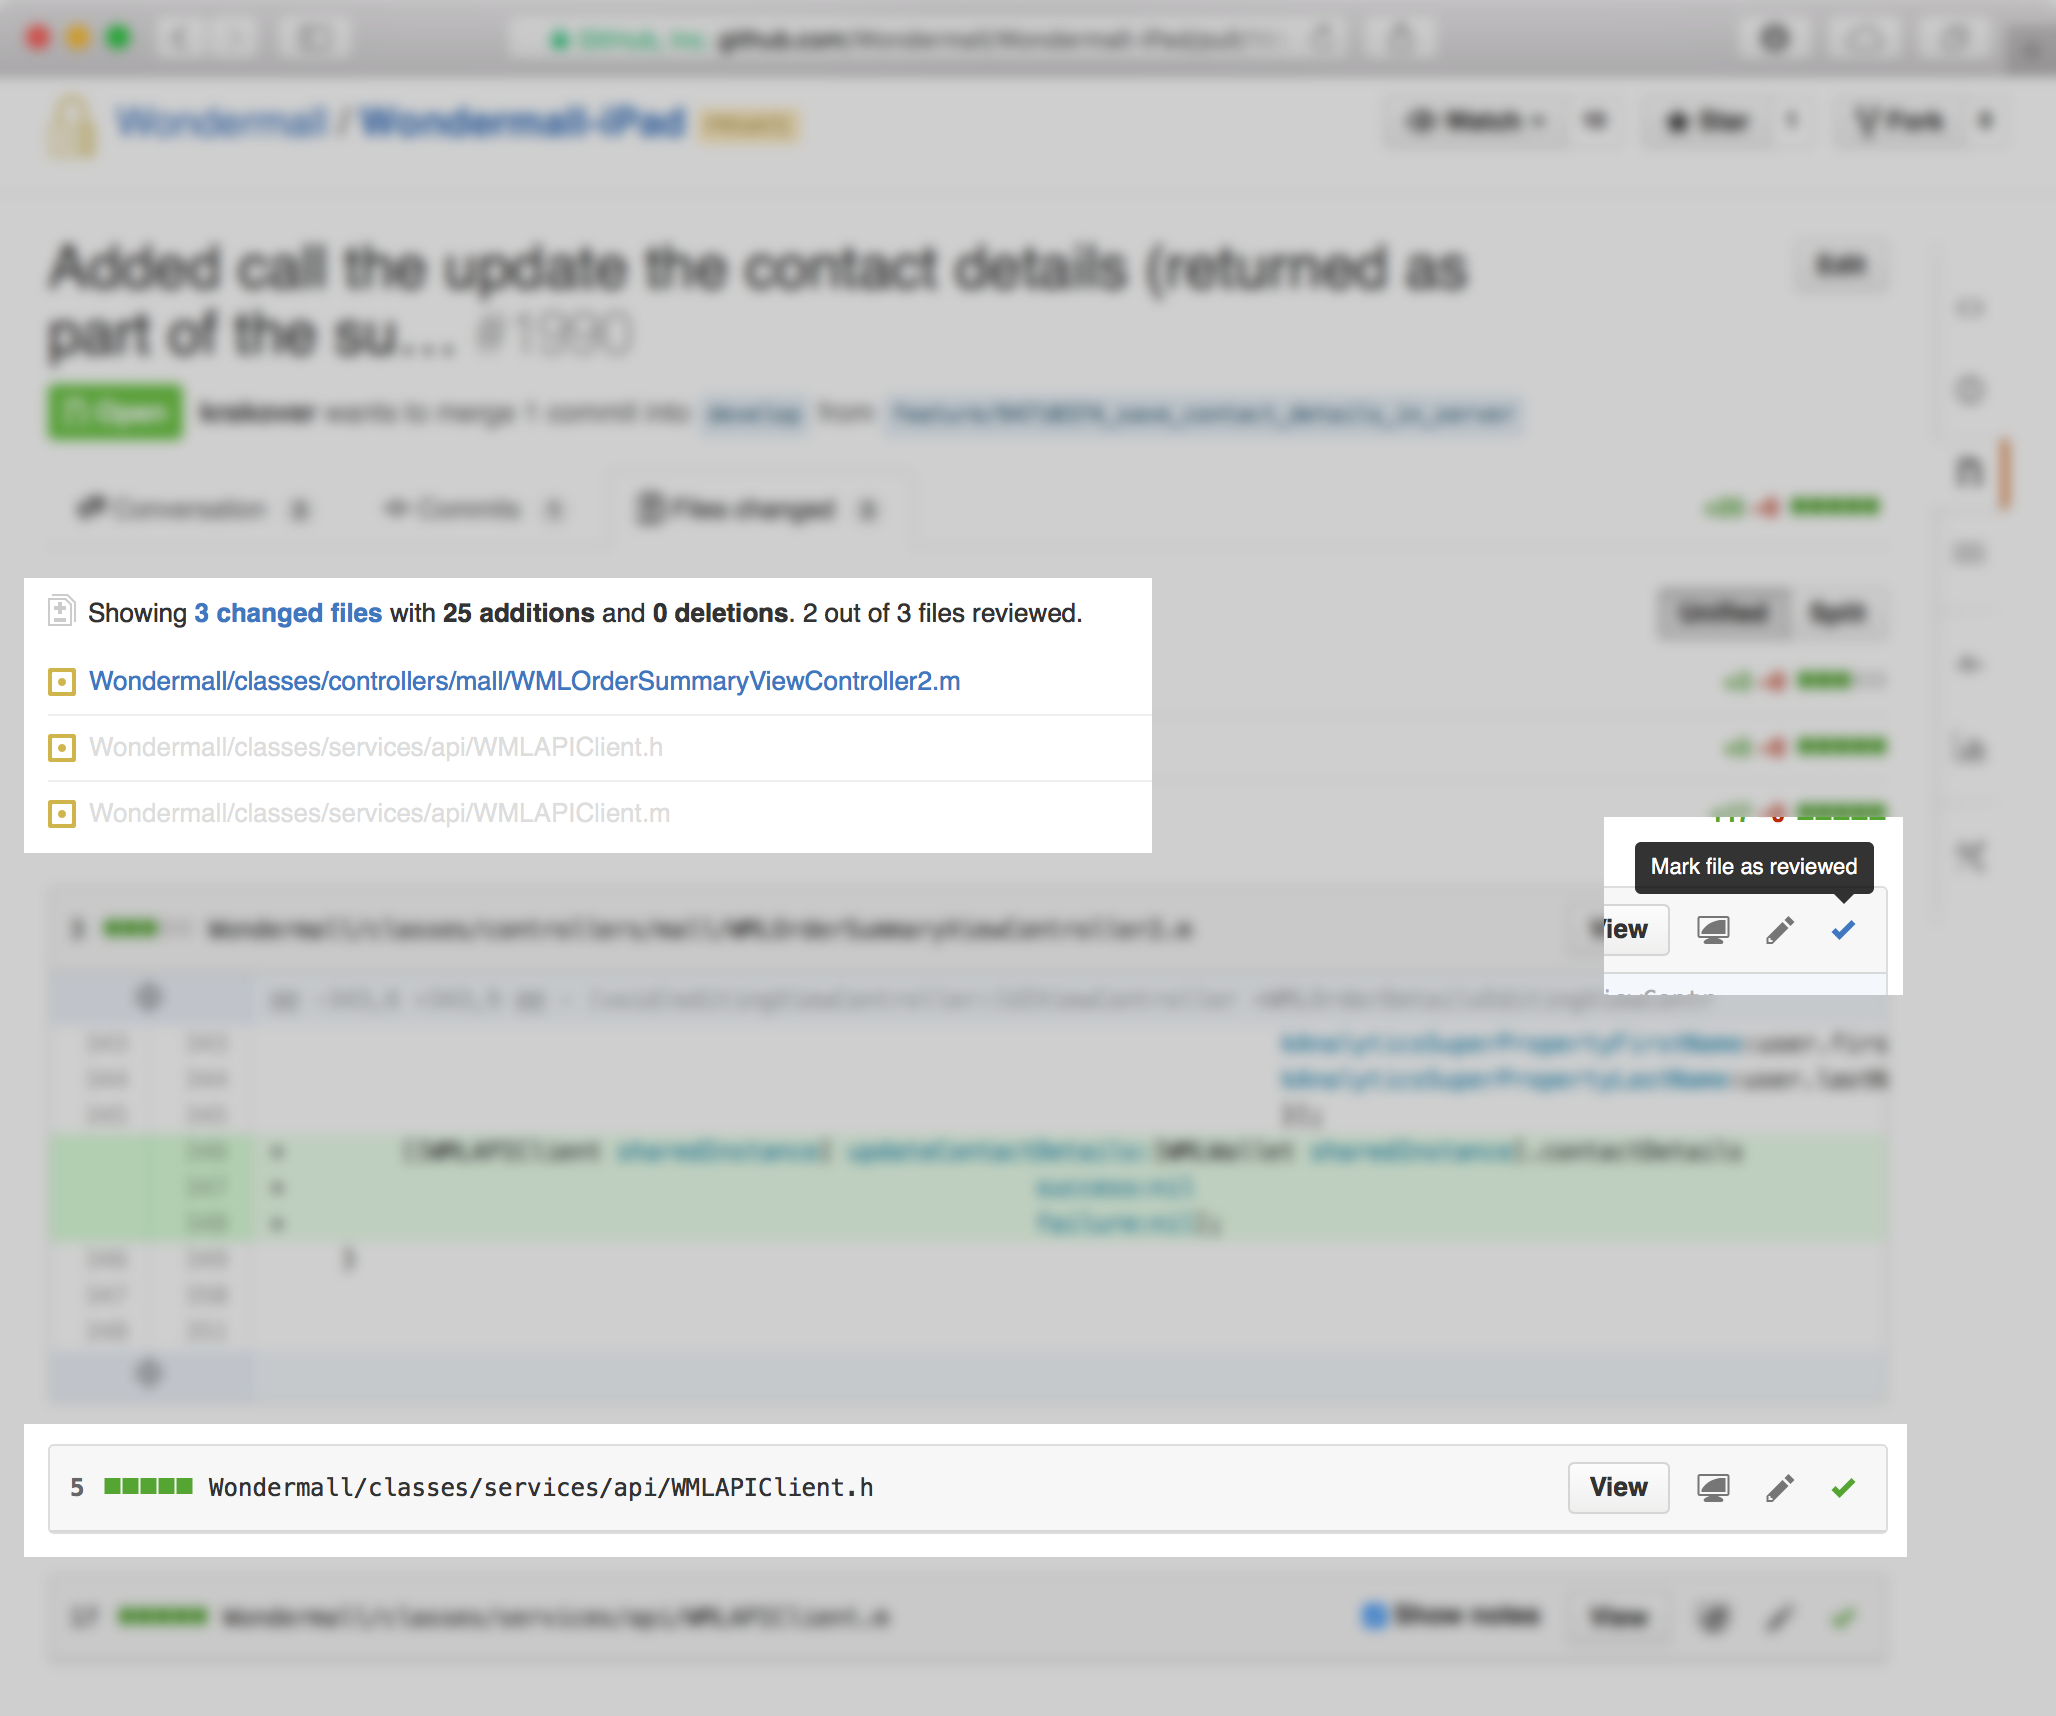
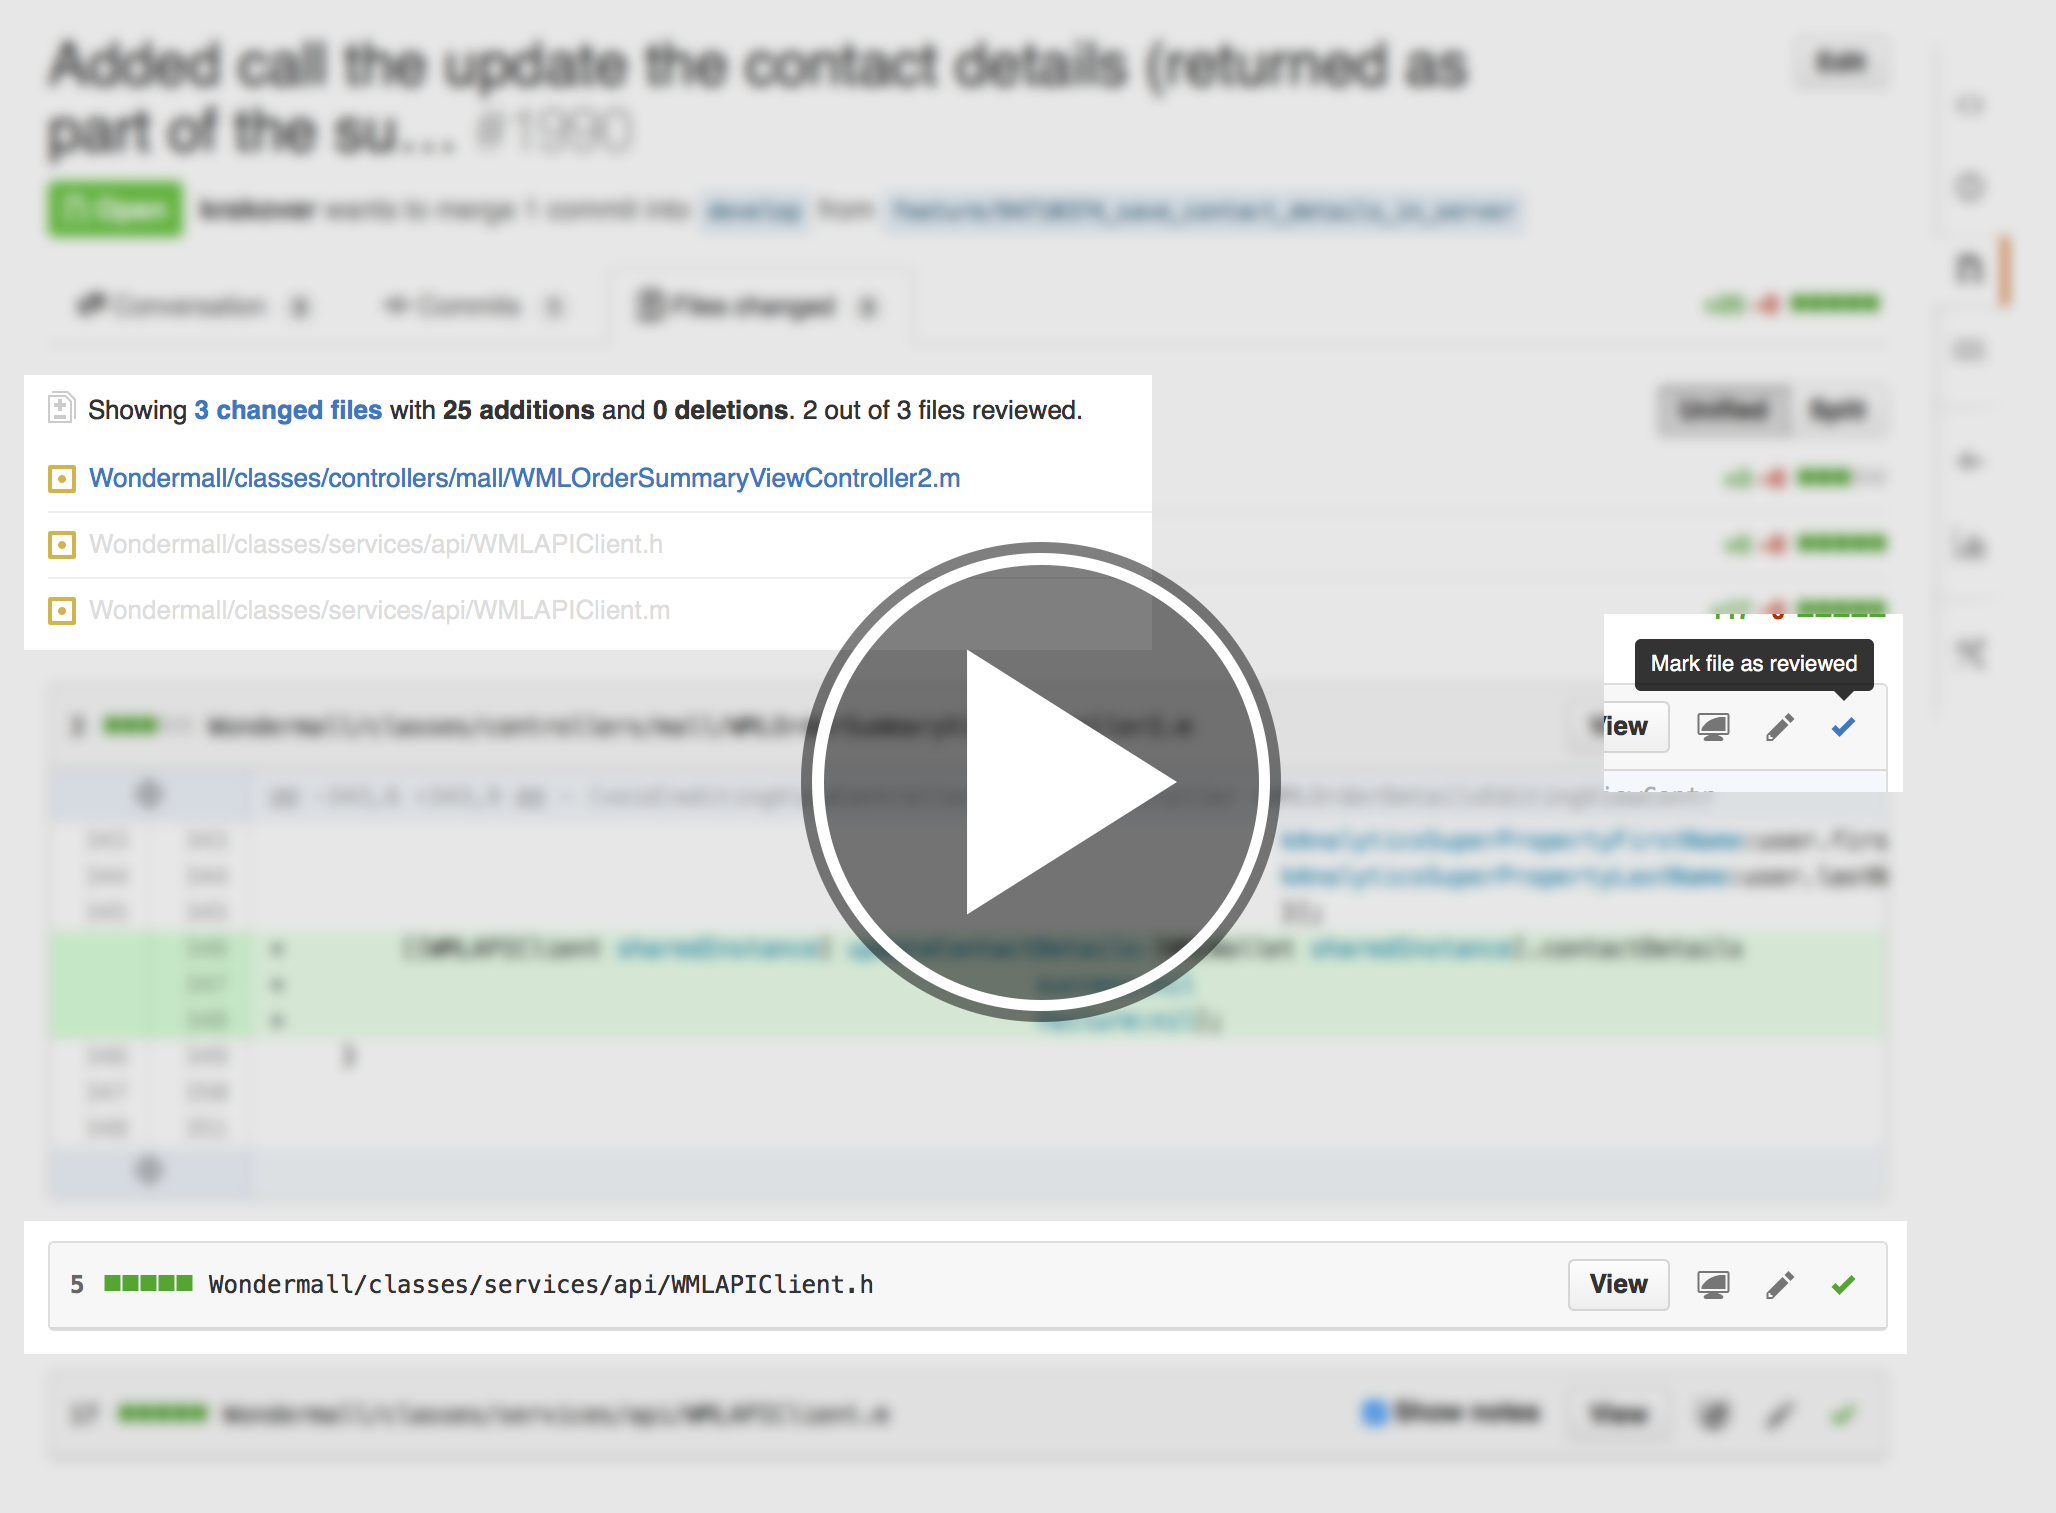
updated readme

diff --git a/README.md b/README.md
@@ -1,3 +1,15 @@
+# Features
+
+* Collapses reviewed files to reduce noise.
+* Uses local storage, so reviewed files are still marked as reviewed next time you open the browser.
+* If changes has been pushed to the file, it's automatically unmarked as reviewed.
+
 See the releases page for the latest extension
 
-![](https://raw.githubusercontent.com/zats/GitHubPR.safariextension/master/readme/screenshot.png)
+Known Issues:
+
+* Extension stops working when you switch between Unified & Split views, or Refresh pull request.
+
+Workaround: simply reload the page.
+
+[![](https://raw.githubusercontent.com/zats/GitHubPR.safariextension/master/readme/screenshot.png)](https://www.youtube.com/watch?v=gXihy4QXhQg)
